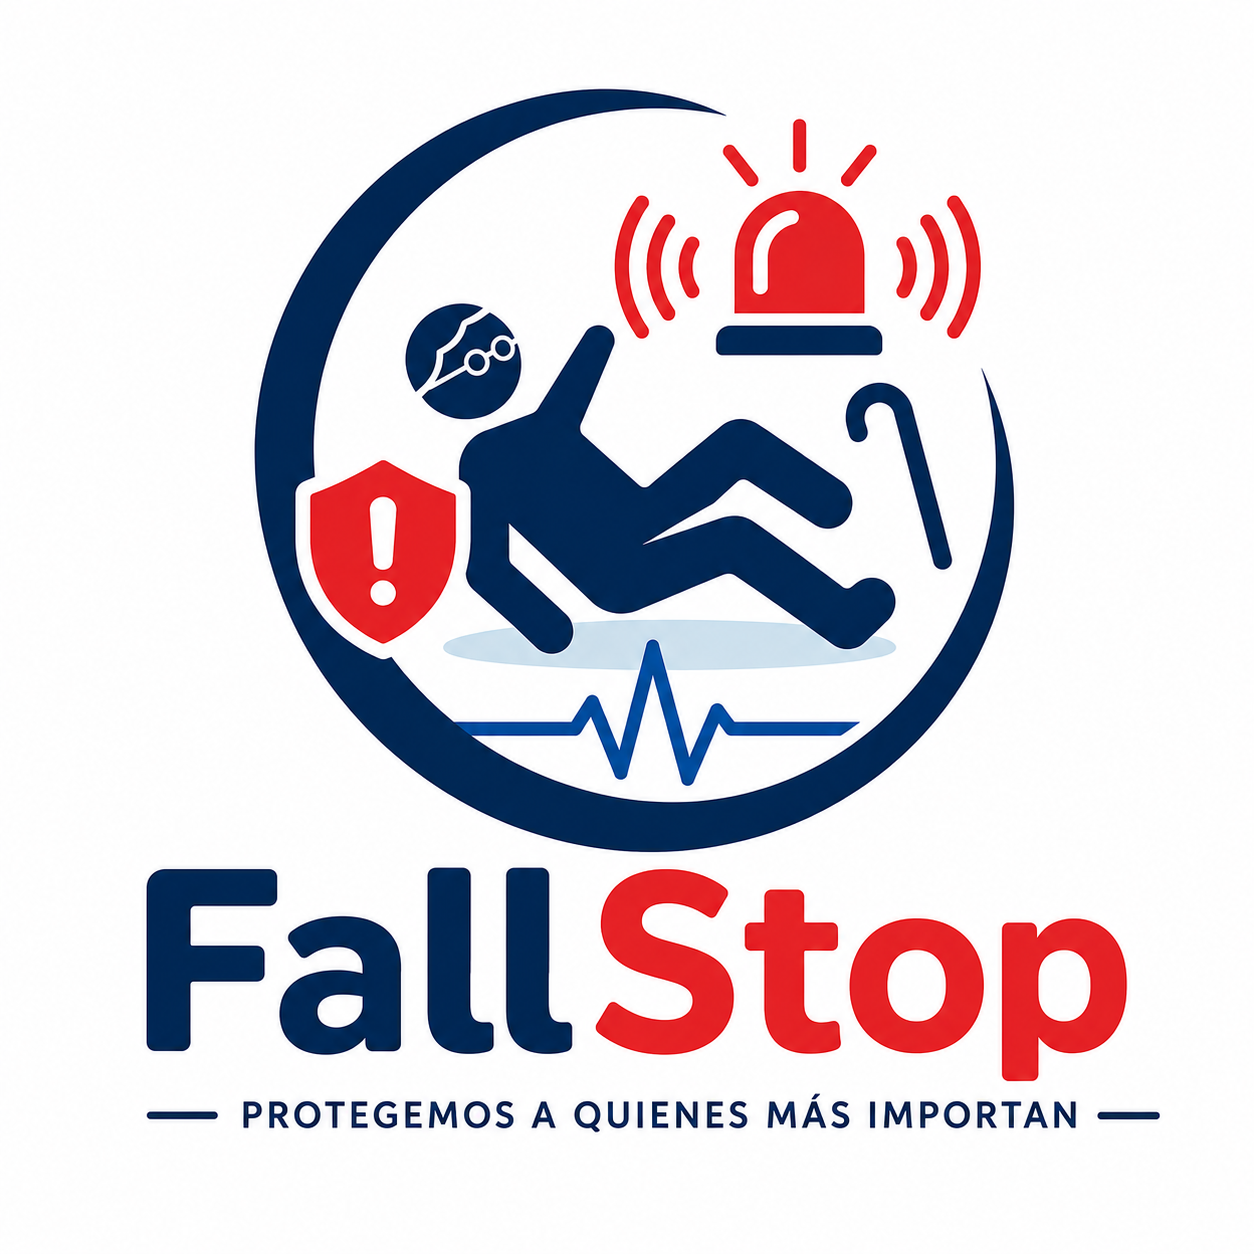
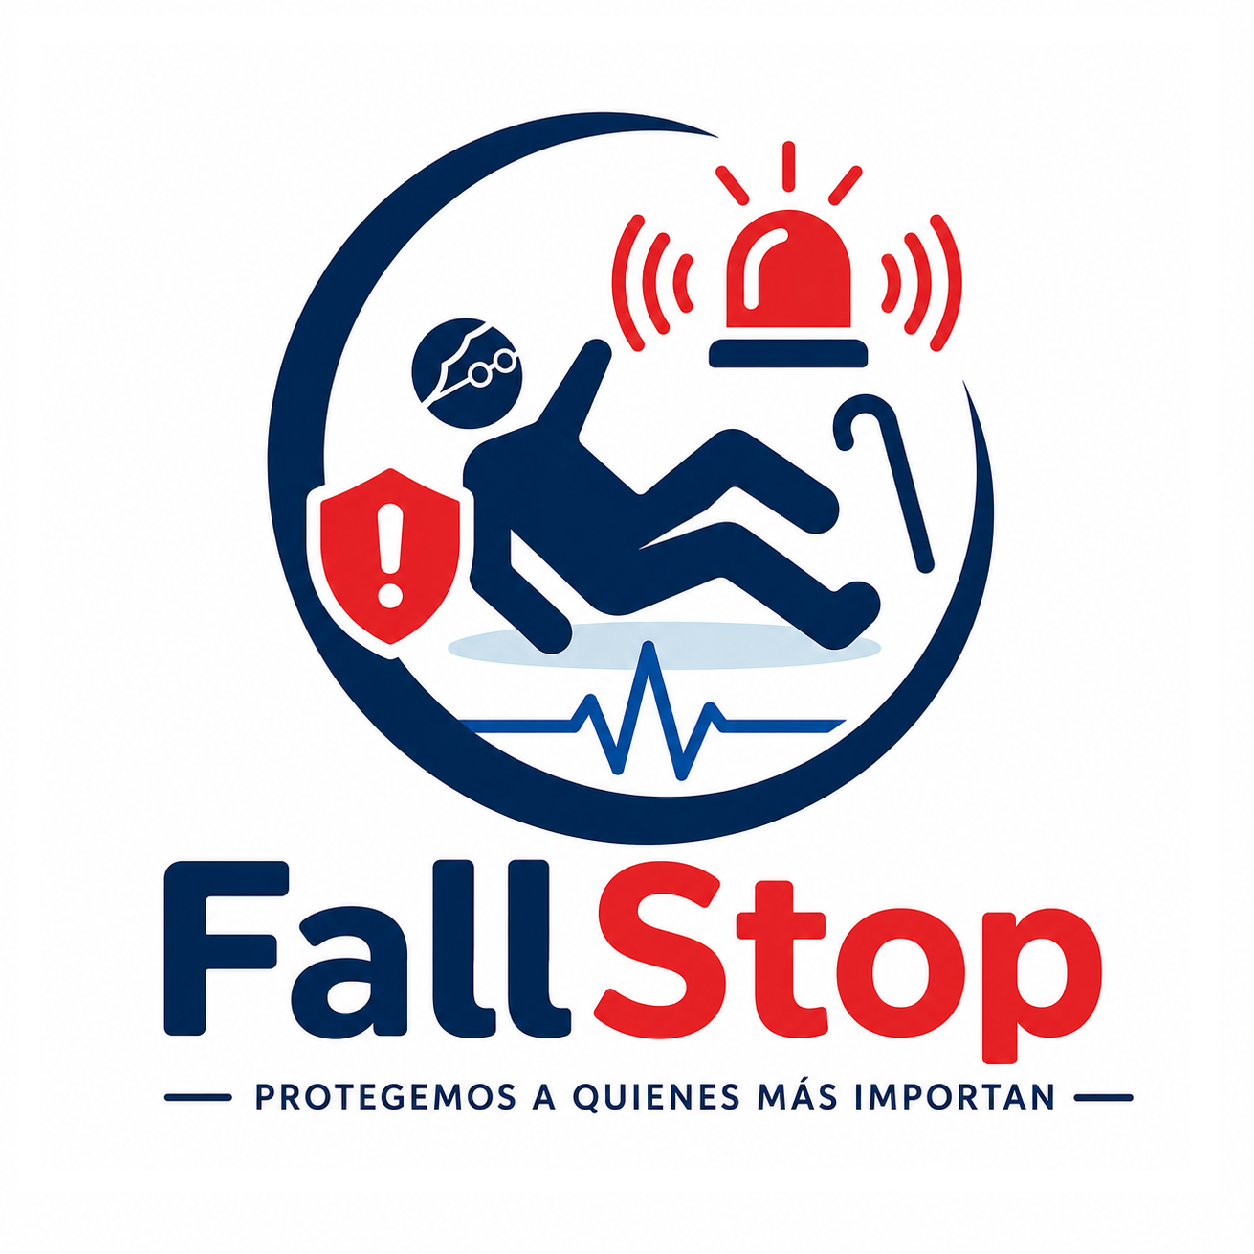
cambiado diseño mas intuitivo

diff --git a/FallStop/MainPage.xaml b/FallStop/MainPage.xaml
@@ -11,37 +11,37 @@
             <RowDefinition Height="*"/>
         </Grid.RowDefinitions>
 
-        <VerticalStackLayout Grid.Row="1" Padding="20" Spacing="5" VerticalOptions="Center">
-            <Image Source="fall_stop.png" HeightRequest="300" HorizontalOptions="Center" />
-            <Label Padding="10"/>
-            <Border BackgroundColor="{AppThemeBinding Light=#E6F0FF, Dark=#2C3A5A}" 
-                    StrokeShape="RoundRectangle 12" 
-                    Padding="20" 
-                    Margin="0,10" 
-                    HorizontalOptions="Center">
-                <Label Text="FallStop Activo" 
-                       FontSize="28" 
-                       FontAttributes="Bold" 
-                       TextColor="{AppThemeBinding Light=#2C2C5A, Dark=#C0C8FF}" 
-                       HorizontalOptions="Center" />
+        <VerticalStackLayout Grid.Row="1" Padding="20" Spacing="15" VerticalOptions="Center">
+
+
+            <Border HeightRequest="250"
+        WidthRequest="250"
+        HorizontalOptions="Center"
+        StrokeThickness="0">
+                <Border.StrokeShape>
+                    <RoundRectangle CornerRadius="50"/>
+                </Border.StrokeShape>
+                <Image Source="fall_stop.png"
+           Aspect="AspectFill"/>
             </Border>
 
-            <Label Text="El sensor de caídas está monitoreando." 
-                   FontSize="16" 
-                   HorizontalOptions="Center" 
+            <Label Padding="10"/>
+            <Label Text="El sensor de caídas está monitoreando."
+                   FontSize="16"
+                   HorizontalOptions="Center"
                    TextColor="{AppThemeBinding Light=#3A2C6A, Dark=#A0A8D0}" />
         </VerticalStackLayout>
-        
-        <Button Text="🌙" 
-                Clicked="ToggleDarkMode" 
-                BackgroundColor="#7BA6FF" 
-                TextColor="#2C2C5A" 
-                FontAttributes="Bold" 
-                CornerRadius="25" 
-                WidthRequest="50" 
-                HeightRequest="50" 
-                HorizontalOptions="End" 
-                VerticalOptions="Start" 
+
+        <Button Text="🌙"
+                Clicked="ToggleDarkMode"
+                BackgroundColor="#7BA6FF"
+                TextColor="#2C2C5A"
+                FontAttributes="Bold"
+                CornerRadius="25"
+                WidthRequest="50"
+                HeightRequest="50"
+                HorizontalOptions="End"
+                VerticalOptions="Start"
                 Margin="20" />
     </Grid>
 </local:BaseShake>

diff --git a/FallStop/AppShell.xaml b/FallStop/AppShell.xaml
@@ -5,18 +5,23 @@
     xmlns:x="http://schemas.microsoft.com/winfx/2009/xaml"
     xmlns:views="clr-namespace:FallStop.Views"
     xmlns:local="clr-namespace:FallStop"
-    Title="FallStop">
+    Title="FallStop"
+    Shell.BackgroundColor="#1565C0"
+    Shell.TitleColor="White"
+    Shell.ForegroundColor="White"
+    Shell.TabBarBackgroundColor="#1565C0"
+    Shell.TabBarForegroundColor="White"
+    Shell.TabBarTitleColor="White"
+    Shell.TabBarUnselectedColor="#90CAF9">
 
     <Shell.ToolbarItems>
         <ToolbarItem Text="Salir" Clicked="OnLogoutClicked" />
     </Shell.ToolbarItems>
-    
-    
 
     <TabBar>
-        <Tab Title="Home" Icon="icon_home.png">
+        <Tab Title="Inicio" Icon="icon_home.png">
             <ShellContent
-                Title="Home"
+                Title="Inicio"
                 ContentTemplate="{DataTemplate local:MainPage}"
                 Route="MainPage" />
         </Tab>
@@ -28,7 +33,8 @@
                 Route="InformationView" />
         </Tab>
     </TabBar>
-    <ShellContent Route="Warning" 
+
+    <ShellContent Route="Warning"
                   ContentTemplate="{DataTemplate views:WarningView}"
                   FlyoutItem.IsVisible="False"/>
 </Shell>